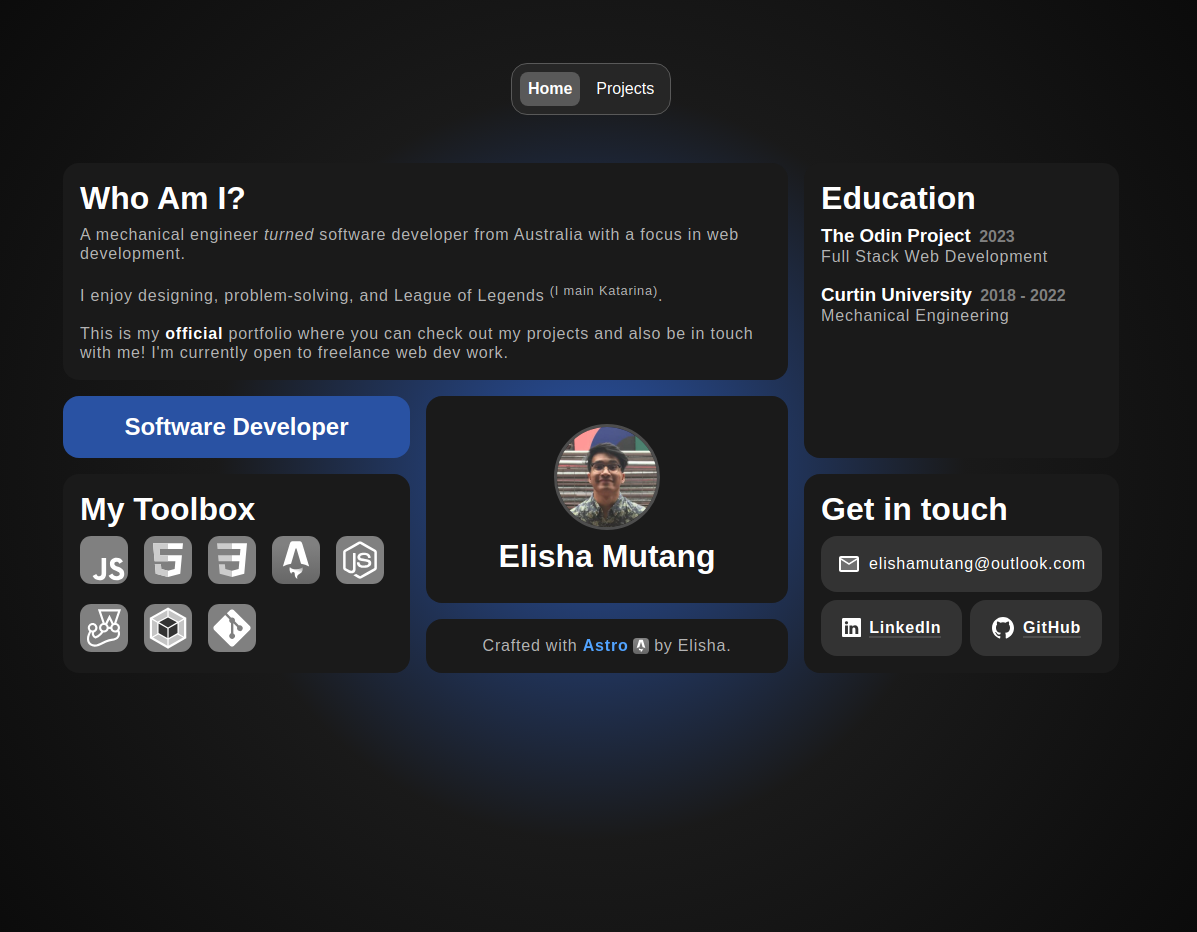
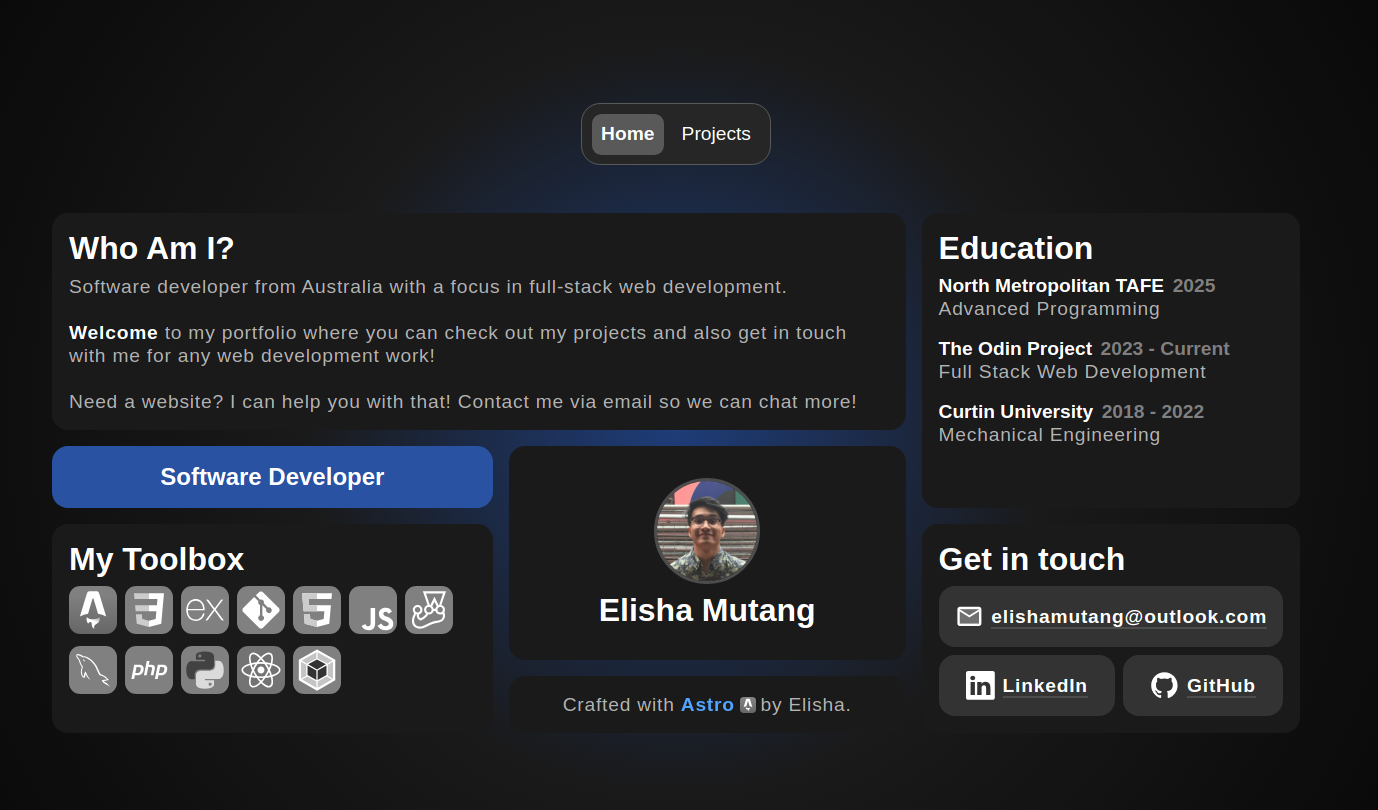
Updated README and updated homepage.

Changed region(s): [[0.0309, 0.0617, 0.9582, 0.8951], [0.4018, 0.8642, 0.6182, 0.8951]]

diff --git a/README.md b/README.md
@@ -12,7 +12,9 @@ Click [here](https://elishamutang.netlify.app/) for a live demo.
 
 - HTML
 - CSS
+- JavaScript
 - Astro
+- Iconify (for all icons)
 
 ## Inspired by
 
